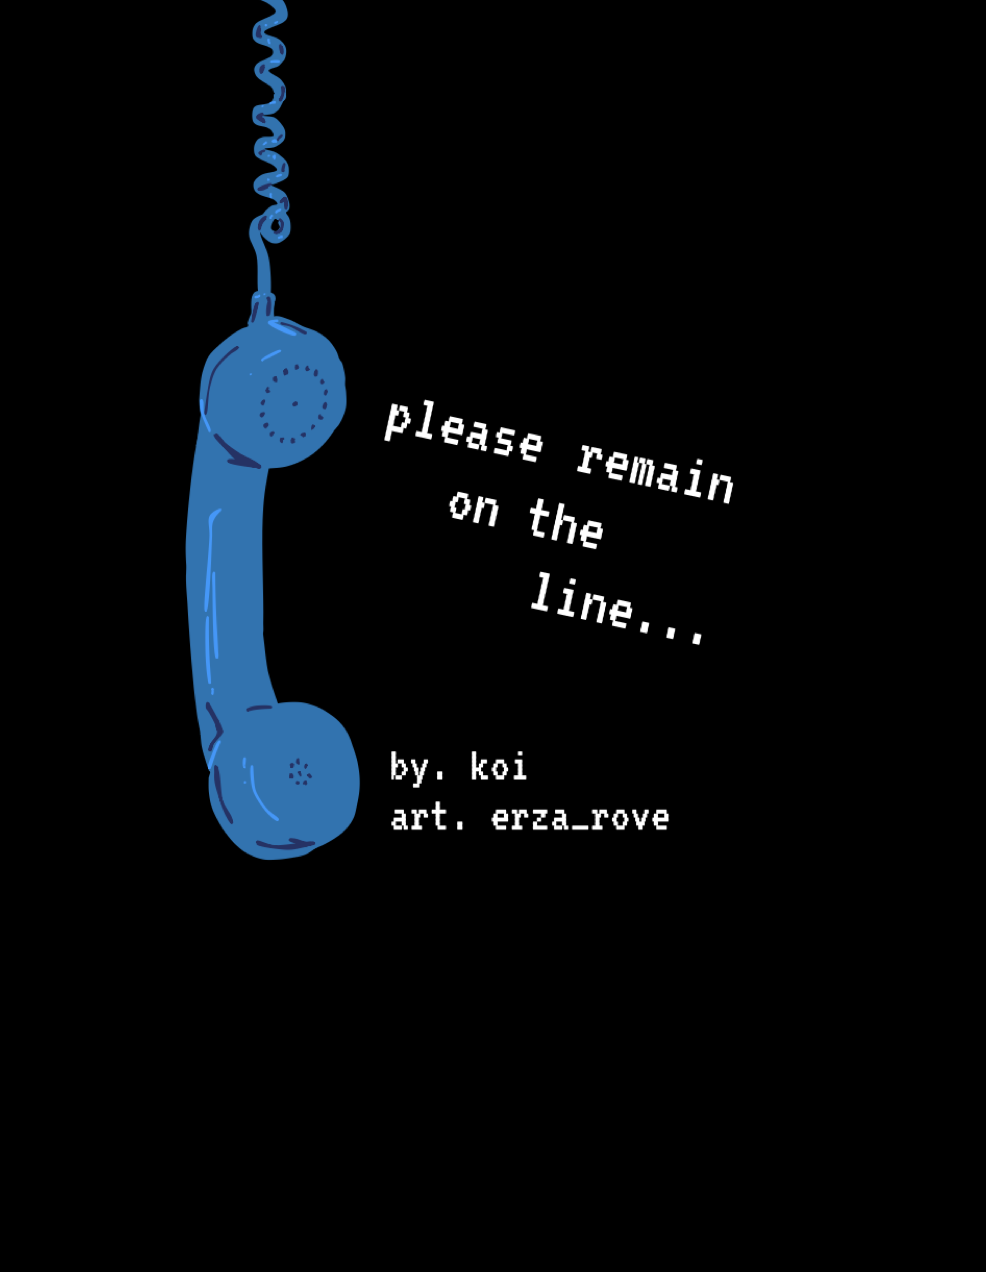
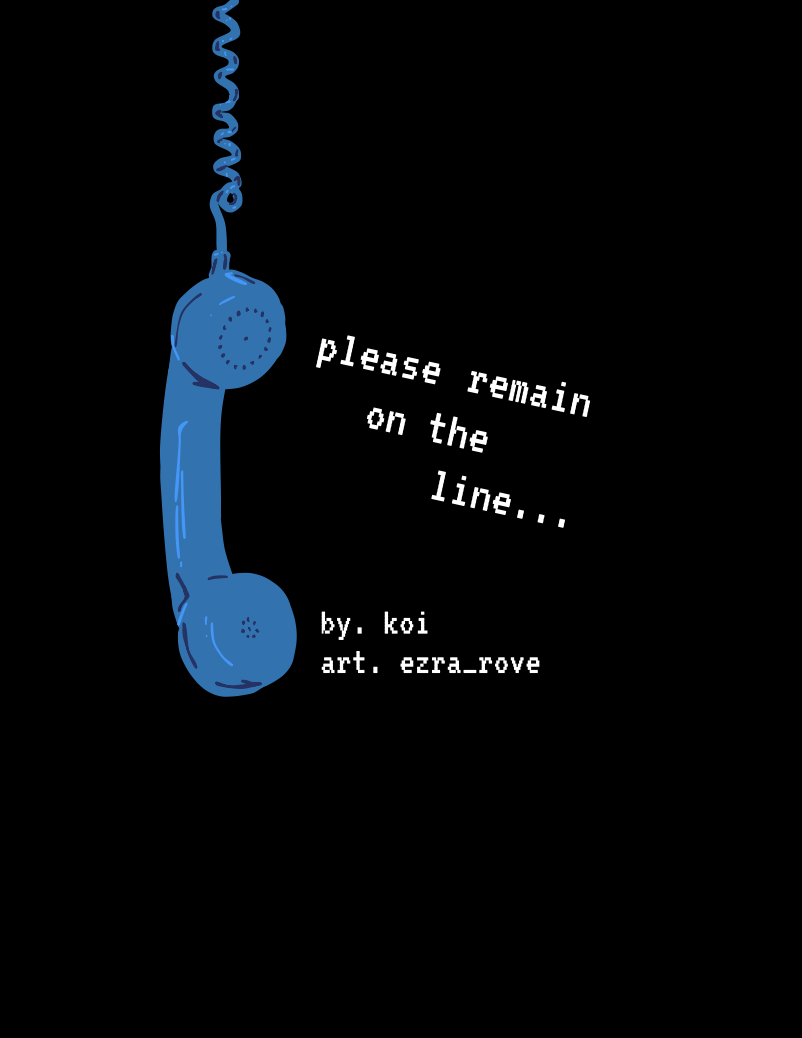
Game loop with endings

diff --git a/main.py b/main.py
@@ -87,7 +87,7 @@ async def main ():
     life = False
     respawn = False
 
-    scene = 15 # CHEATING
+    scene = 0 
     time = 5
 
     x_rope = 0
@@ -140,6 +140,8 @@ async def main ():
     completed_lines = []
 
     ending = None 
+    line_x = 0
+    p = 0
     
 
 # FILES
@@ -834,6 +836,8 @@ async def main ():
             if current_text != "" and current_line < len(call_scene):
                 draw_text(current_text, 20, 20 + (current_line * 80))
 
+            draw_text("HIT RETURN", 20, 600)
+
             return current_line, char_index, frame_counter, current_text, completed_lines
             
 
@@ -1193,7 +1197,7 @@ async def main ():
 
 # PHONE BOOTH CUT-SCENES
 
-    def phone_call(order, phone_script, phone_answer, lives, char_index, frame_counter, current_text, current_line, completed_lines):
+    def phone_call(order, phone_script, phone_answer, lives, char_index, frame_counter, current_text, current_line, completed_lines, line_x, ending, p):
         screen.fill((0, 0, 0))
 
     # Intro 
@@ -1263,34 +1267,58 @@ async def main ():
             if phone_answer == False:
                 lives = lose_life(lives)
                 
-    # 4 - You’ve reached the end of the line…
+    # 4 - Ending
 
+    # BAD Ending 
         elif order == 4: 
             script = [phone_script[6], phone_script[7]]
             x = [100, 100]
-            
-    # BAD Ending 
-
-        elif order == 5:
-            script = ["Please Remain on the Line", 
-                        "Created by: Koi", 
-                        "Design & Code: Koi", 
-                        "Art: erza_rove", 
-                        "Music / SFX: Koi", 
-                        "Play Testers: Roomies", # Add Benton/ask
-                        "Built with: Python 3.12 - Pygame (pygame.org)", 
-                        "Font: 'Nokia Cellphone FC' by Zeh Fernando", 
-                        "Made for: Mines Game Development Club 2026 Fall Game Jam",
-                        "Theme: 'End of the Line'"] 
-            
-            x = [20, 20, 20, 20, 20, 20, 20, 20, 20, 20]
 
     # GOOD Ending 
+        elif order == 5:
+            script = ["Connecting...",
+                        "",
+                        "Hello?", 
+                        "This is the Suicide & Crisis Lifeline.", 
+                        "",
+                        "Thank you for Remaining on the Line."]
+    
+            x = [20, 20, 20, 20, 20, 20]
 
+    # CREDITS
         elif order == 6:
-            script = ["Hello?", "This is the Suicide & Crisis Lifeline.", "How may I help you?"]
+            script = ["Please remain on the line...", 
+                        "",
+                        "Design / Code / Music / SFX: Koi", 
+                        "Art: ezra_rove", 
+                        "Play Testers: Roomies", 
+                        "Built with: Python 3.12 - Pygame", 
+                        "Font: 'Nokia Cellphone FC'", 
+                        "by Zeh Fernando", 
+                        "Made for: Mines Game Development",
+                        "Club 2026 Fall Game Jam",
+                        "Theme: 'End of the Line'"] 
+            
+            x = [20, 20, 20, 20, 20, 20, 20, 20, 20, 20, 20]
 
-            x = [20, 20, 20]
+            if ending == 4:
+                if line_x < 600:
+                    line_x += 1
+                    pygame.draw.line(screen, GOLD, (0, 98), (line_x, 98), 4)
+                else:
+                    line_x = 0
+            elif ending == 5:
+                pattern = [0, 1.5, -1.5, 0, 2, -2, 5, -10, 10]
+                if p >= len(pattern):
+                    p = 0
+                if line_x < 600:
+                    line_x += 1
+                    p += 1
+                    pygame.draw.line(screen, GOLD, (0, 98), (line_x, 98 * pattern[p]), 4)
+                else:
+                    line_x = 0
+
+    
 
 
         # Type-y Text Effect
@@ -1316,7 +1344,7 @@ async def main ():
             draw_text(current_text, x[current_line], 200 + (current_line * 50))
 
         
-        return order, phone_answer, lives, current_line, char_index, frame_counter, current_text, completed_lines
+        return order, phone_answer, lives, current_line, char_index, frame_counter, current_text, completed_lines, line_x, p
 
         
 
@@ -1349,7 +1377,7 @@ async def main ():
 
             if event.type == pygame.MOUSEBUTTONDOWN:
                 mouse_pos = event.pos  
-                if phone_ringing == False and scene != 16:
+                if phone_ringing == False:
                     if seq_played == True:   
                         s, flash_timer, call = dial(buttons, sequence, mouse_pos, s, flash_timer)
 
@@ -1396,9 +1424,12 @@ async def main ():
                 elif coin_yes == True:
                     if event.key == pygame.K_y:
                         phone_answer = True
+                        if scene == 15:
+                            ending = 5
                     elif event.key == pygame.K_n:
                         phone_answer = False
-
+                        if scene == 15:
+                            ending = 4
                 if tut_screen == True:
                     if event.key == pygame.K_RETURN:
                         if throw_rope == True:
@@ -1408,6 +1439,7 @@ async def main ():
                         current_text = ""
                         
                         tut_screen = False
+                
 
                 if scene == 0:
                     if event.key == pygame.K_RETURN:
@@ -1417,6 +1449,14 @@ async def main ():
                         current_text = ""
                         current_line = 0
                         completed_lines = []
+
+                if scene == 16:
+                    if event.key == pygame.K_y:
+                        coin_yes = True
+                        order = ending
+                        phone_screen = True
+
+
 
         if start == False:
             screen.blit(START_SCREEN, (0,0))
@@ -1551,6 +1591,11 @@ async def main ():
                             draw_text("No", 334, 460)                     
                 elif scene == 16:
                     draw_phonebooth(phone_x=320, phone_y=360)
+                    if character.colliderect(draw_phonebooth(phone_x=320, phone_y=360)):
+                        pygame.draw.rect(screen, BLACK, (200, 400, 200, 100))  
+                        draw_text("Call?", 265, 410) 
+                        draw_text("Yes", 225, 460) 
+                        draw_text("No", 334, 460) 
                     
 
                 # Rope collision
@@ -1718,7 +1763,7 @@ async def main ():
                         if phone_ringing == False:
                             RINGTONE.play(-1)  
                             phone_ringing = True
-                        order, phone_answer, lives, current_line, char_index, frame_counter, current_text, completed_lines = phone_call(order, phone_script, phone_answer, lives, char_index, frame_counter, current_text, current_line, completed_lines) 
+                        order, phone_answer, lives, current_line, char_index, frame_counter, current_text, completed_lines, line_x, p = phone_call(order, phone_script, phone_answer, lives, char_index, frame_counter, current_text, current_line, completed_lines, line_x, ending, p) 
                         if phone_answer != None:
                             RINGTONE.stop()
                             phone_ringing = False
